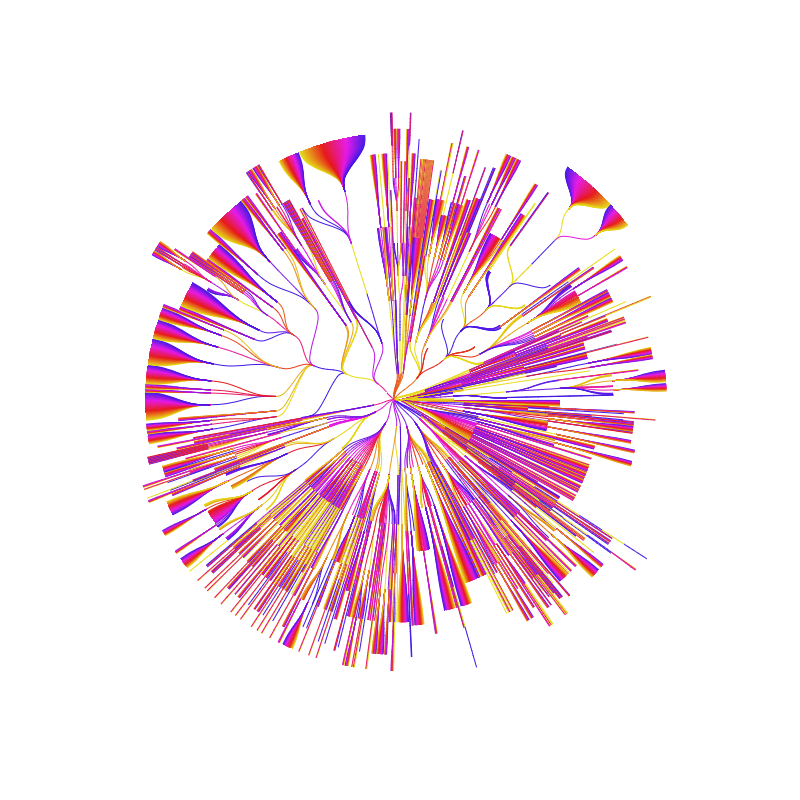
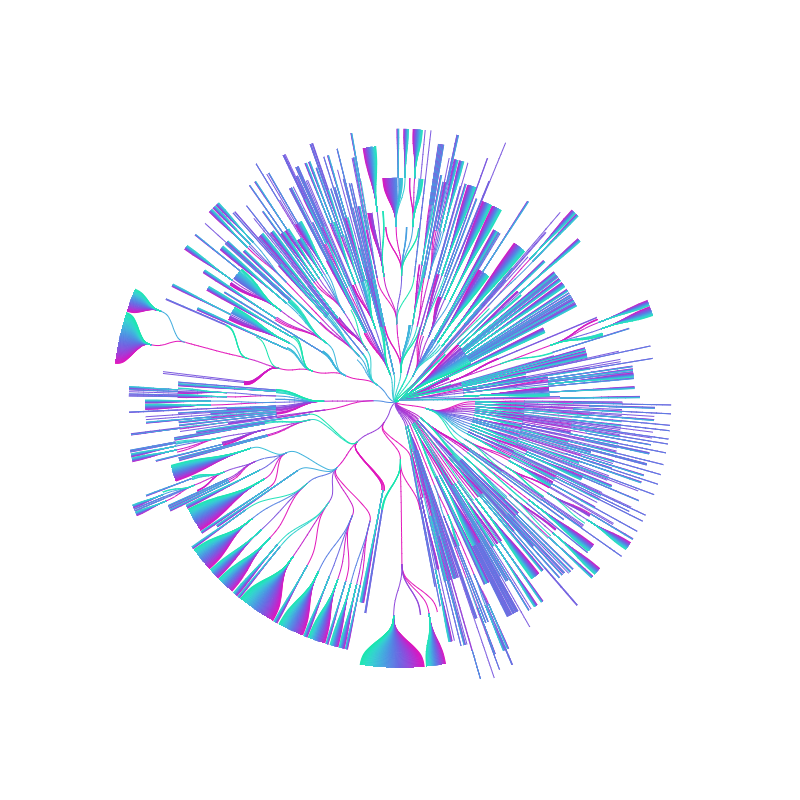
outputs update

Changed region(s): [[0.125, 0.1562, 0.8438, 0.8438]]

diff --git a/code/repogram/README.md b/code/repogram/README.md
@@ -67,7 +67,7 @@ Live view: [https://rethread.art/code/repogram/circular](https://rethread.art/co
            width: 50%;"
 />
 
-- [https://rethread.art/code/repogram/circular/?background=black&color=no&width=800&height=800](https://rethread.art/code/repogram/circular/?background=black&color=no&width=800&height=800)
+- [https://rethread.art/code/repogram/circular/?background=white&color=no&width=800&height=800](https://rethread.art/code/repogram/circular/?background=white&color=no&width=800&height=800)
 
 <img 
     src="outputs/repogram_circular_output_2.png" 
